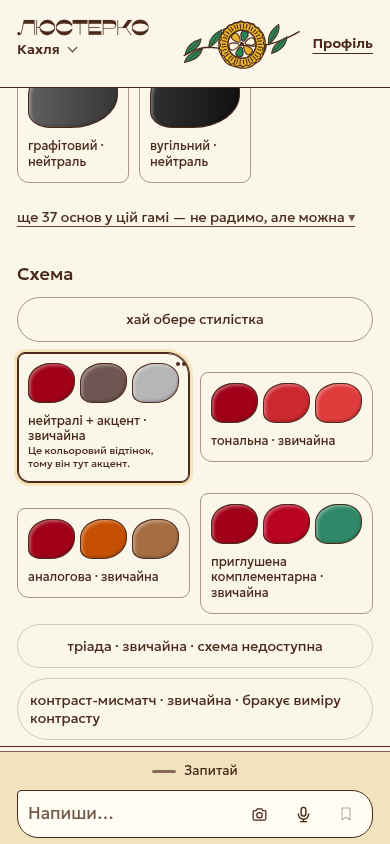
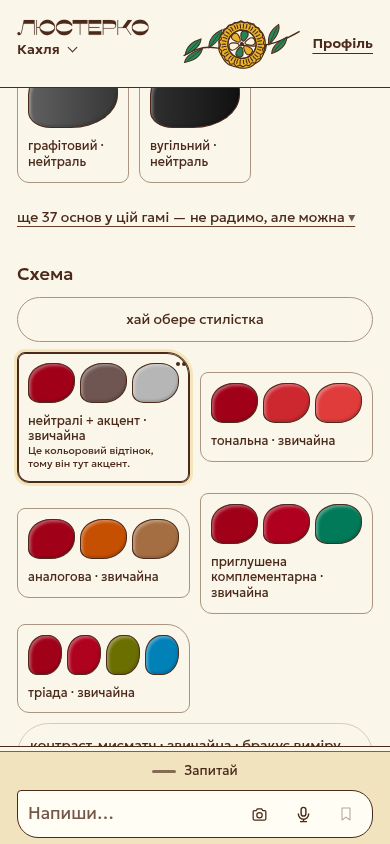
Зберігати добір для нейтралі й насиченої основи
Нотатки: CI виявив, що кольоровий гарант читав тон нейтралі, а тісні вікна тріади губили бордовий тренч. Нейтральний рядок проходить зі своїм типом, гамут тріади лишає місце приглушеним носіям. Мірило оновлено, ключові числа сталі; перевірити CI цієї голови.

Changed region(s): [[0.0308, 0.7393, 0.8308, 0.8934], [0.6154, 0.8009, 0.8615, 0.8934], [0.8, 0.5853, 0.9231, 0.6469]]

diff --git a/джерела/палітра_специфікація.py b/джерела/палітра_специфікація.py
@@ -361,11 +361,13 @@ def специфікація(F, схема, слоти, якір_тон=None, so
             якір_джерело = "рекомендація"
     тони = S["тон"](якір_тон) if якір_тон is not None else {r: None for r in РОЛІ}
     цілі = {}
+    ширше_вікно = False
     if lab_основи is not None and якір_тон is not None:
         L_осн, C_осн, h_осн = lch(lab_основи)
         C_опори = запасна_хрома if нейтральна and запасна_хрома is not None else C_осн
         gap = (P.get("мисматч") or {}).get("драбина", особа["value_gap"])
         цілі = _цілі_від_основи(L_осн, C_осн, C_опори, gap, S, тони, роль_основи)
+        ширше_вікно = S.get("поверхні") == "великі" and C_осн > S["хрома"]["домінанта"][1]
 
     def поле_слота(слот, роль):
         """Вікно для слота будується ПІСЛЯ того, як роль остаточна, щоб слот,
@@ -396,10 +398,15 @@ def специфікація(F, схема, слоти, якір_тон=None, so
             базова == "нейтрали+акцент" or (not нейтральна and S.get("поверхні") != "великі")))
         if ціль and (not near or not особа.get("доступно") or (точна and t == "нейтраль")):
             L0 = ціль[0]
-            L = [max(0.0, L0 - КРОК / 2), min(100.0, L0 + КРОК / 2)]
+            півсмуги_L = КРОК if ширше_вікно else КРОК / 2
+            L = [max(0.0, L0 - півсмуги_L), min(100.0, L0 + півсмуги_L)]
         if ціль and isinstance(t, tuple):
             ширина_C = (C_[1] - C_[0]) / 2
-            C_ = [max(0.0, ціль[1] - ширина_C), ціль[1] + ширина_C]
+            нижня = ціль[1] - ширина_C
+            if ширше_вікно:
+                # Насичена основа лишає приглушені носії всіх сімей на великих речах.
+                нижня = min(нижня, C_[0])
+            C_ = [max(0.0, нижня), ціль[1] + ширина_C]
         if near and C_[1] > ГУЧНО and _РЕЄСТР.стриманий_намір(intent):   # K-PER-00
             C_[1] = ГУЧНО - 1
         поле = dict(роль=роль, L=L, C=C_, місце="тип" if бік is not None else "невідомо")
@@ -692,7 +699,7 @@ def специфікація(F, схема, слоти, якір_тон=None, so
         # інакше генератор і перевіряльник знову мали б два різні «кольори схеми».
         # Сім'я, у чиїй дузі лежить обрана основа, зветься словом самої жінки
         # («оливковий»), а не словом лексикону для зразка («пісочний»).
-        if обрана_основа and обрана_основа.get("назва"):
+        if обрана_основа and not нейтральна and обрана_основа.get("назва"):
             for _с in сім_ї_схеми:
                 if сім_я_схеми(hx(обрана_основа["hex"]), [_с]):
                     _с["слово"] = обрана_основа["назва"]

diff --git a/джерела/тест_інваріанти.py b/джерела/тест_інваріанти.py
@@ -1966,7 +1966,7 @@ class Е3_БарвиВідОснови(unittest.TestCase):
         from міст_основи import основа_для_схем
 
         for hex_ in ("#a10019", "#283c78", "#128770", "#b52343"):
-            основа = основа_для_схем({}, lambda: {
+            основа = основа_для_схем({}, lambda hex_=hex_: {
                 "кольори": [{"ключ": "колір·середні", "hex": hex_, "бал": 0.65}]})
             self.assertEqual(основа["база_hex"], hex_)
 
@@ -2020,6 +2020,14 @@ class Е3_БарвиВідОснови(unittest.TestCase):
                                     for в in план["вікна"] if в["слот"] in слоти and в["спроба"] == 0))
                 for з in гілка["зразки"]:
                     self.assertTrue(any(feed.підходить(hx(з), в) for в in план["вікна"]), з)
+
+    def test_нейтральна_основа_проходить_запити_каталогу(self):
+        профіль = _Стенд.дати()["вх"]
+        вибір = dict(база="графіт", база_hex="#4b4b4b", база_назва="графітовий", база_тип="нейтраль")
+        запити = виклик("запити", dict(профіль, схема="тональна", вибір_кольору=вибір))
+        self.assertFalse(запити.get("помилка"), запити.get("помилка"))
+        self.assertTrue(запити["пакети"]["1"]["пул"])
+        self.assertNotIn("base_is_outfit_colour", json.dumps(запити["руки"], ensure_ascii=False))
 
     def test_без_кольорової_основи_називається_риса_а_чужих_зразків_немає(self):
         with open("стенд_вх.json", encoding="utf-8") as файл:
@@ -2140,6 +2148,7 @@ print(json.dumps([кількість, sorted(sys.modules)]))
     Е3_БарвиВідОснови.test_запасна_основа_належить_поточному_рангу,
     Е3_БарвиВідОснови.test_плитки_мають_зразки_до_вибору_й_на_нейтральній_основі,
     Е3_БарвиВідОснови.test_обраний_колір_має_ту_саму_роль_у_схемі_й_запиті,
+    Е3_БарвиВідОснови.test_нейтральна_основа_проходить_запити_каталогу,
     Е3_БарвиВідОснови.test_без_кольорової_основи_називається_риса_а_чужих_зразків_немає,
     Е3_ВеликіПоверхні.test_тріада_й_бажаний_колір_бачать_одні_великі_поверхні,
     Е3_ПолеБезПисача.test_пункт_без_входу_називає_вхід_і_не_судить,

diff --git a/джерела/палітра_запити.py b/джерела/палітра_запити.py
@@ -547,7 +547,7 @@ def запит_у_фід(спец, *, прогін_руки=None):
                 запити.append(dict(слот=с, L_min=_смуга_осн[0], L_max=_смуга_осн[1],
                                    C_min=0.0, C_max=_КР_ТИП.стеля_нейтралей(),
                                    h_from=None, h_to=None, нейтраль=True, спроба=0,
-                                   роль="обрана_основа:нейтраль", обрана_основа=True))
+                                   роль="обрана_основа:нейтраль"))
     if _осн and _осн.get("дуга"):
         _дл, _дв = float(_осн["дуга"][0]), float(_осн["дуга"][1])
         for с, v in (спец.get("слоти") or {}).items():
